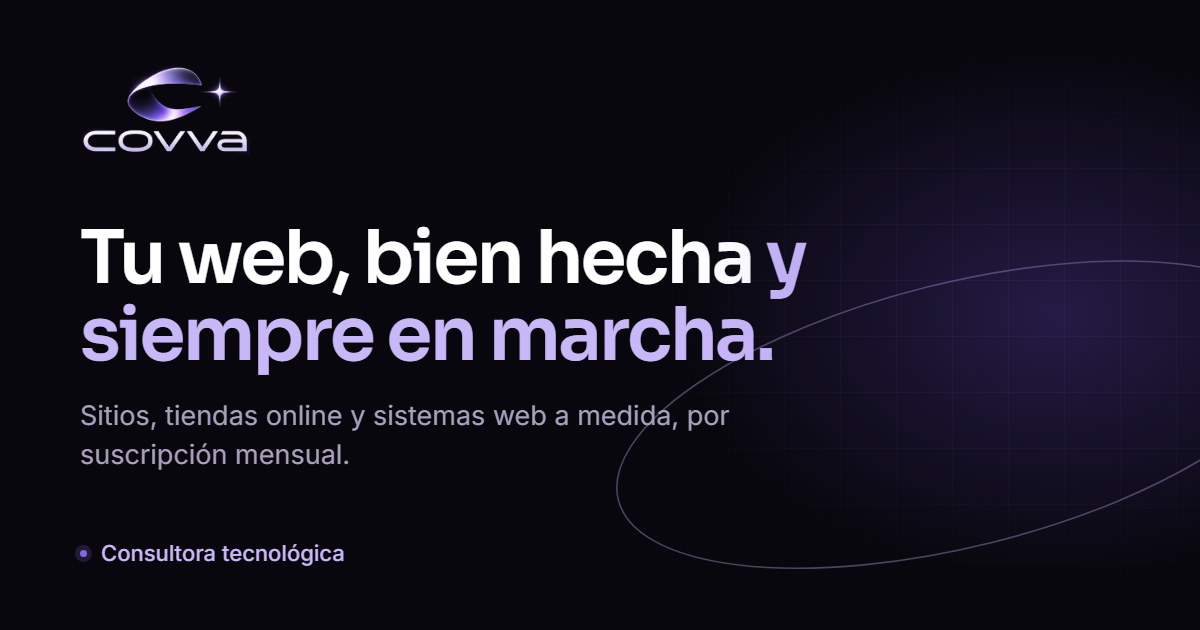
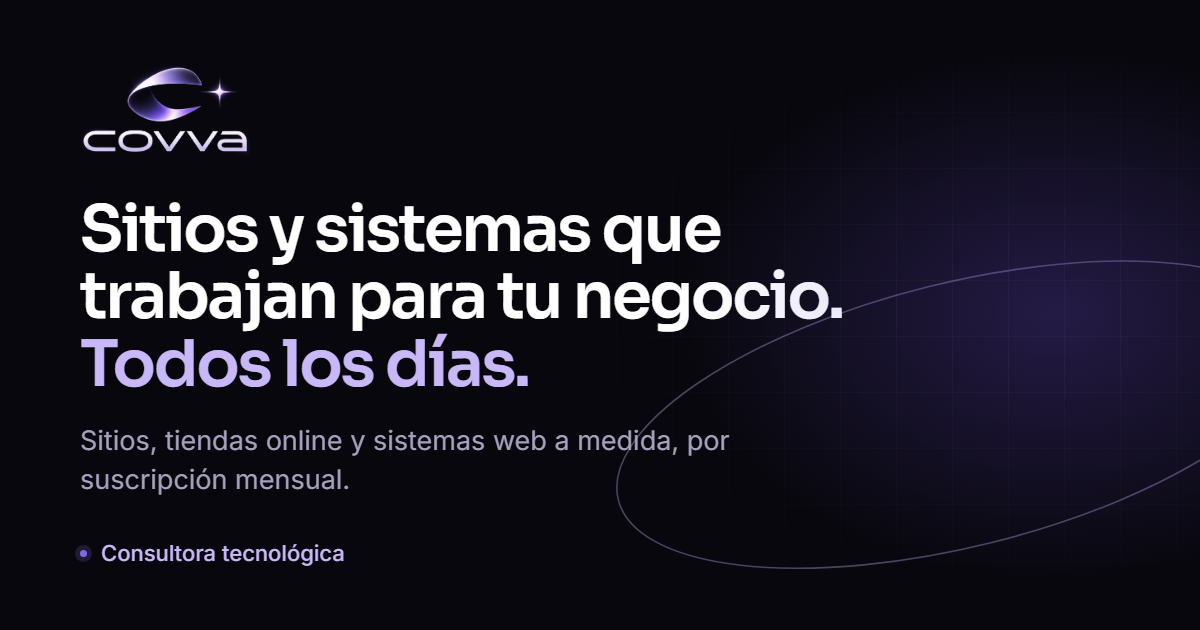
Textos más claros y orientados al cliente
- Nuevos títulos, bajadas y botones en hero, servicios, nosotros, cómo
  trabajamos, suscripción, preguntas frecuentes, contacto y footer.
- Título y descripción para buscadores e imagen para redes con el título nuevo.
- Etiqueta del hero sin borde de píldora en pantallas angostas, para que el
  texto en dos líneas no deforme el diseño.

Changed region(s): [[0.0617, 0.3016, 0.7092, 0.7841]]

diff --git a/src/data/servicios.ts b/src/data/servicios.ts
@@ -18,24 +18,24 @@ export const servicios: Servicio[] = [
   {
     id: 'landing',
     nombre: 'Landing pages',
-    resumen: 'Una página enfocada en un solo objetivo.',
+    resumen: 'Una página pensada para convertir visitas en consultas.',
     descripcion:
-      'Ideal para presentar un producto, un servicio o una campaña. Todo el contenido está pensado para que quien entra entienda rápido qué ofrecés y te contacte.',
+      'Ideal para lanzar un producto, promocionar un servicio o acompañar una campaña. Cada sección está ordenada para que quien entra entienda rápido qué ofrecés y te escriba.',
     incluye: [
       'Diseño a medida, alineado a tu marca',
       'Estructura y textos ordenados en función del objetivo',
       'Acceso directo a tu contacto o WhatsApp',
       'Pensada primero para celulares',
     ],
-    paraQuien: 'Lanzamientos, campañas y profesionales que necesitan presencia online clara.',
+    paraQuien: 'Lanzamientos, campañas publicitarias y profesionales que quieren captar clientes.',
     icono: 'landing',
   },
   {
     id: 'institucional',
     nombre: 'Sitios institucionales',
-    resumen: 'Tu presencia completa en internet.',
+    resumen: 'La carta de presentación de tu marca.',
     descripcion:
-      'Un sitio que cuenta quiénes son, qué hacen y cómo contactarlos, con una imagen a la altura de tu marca y fácil de recorrer desde cualquier dispositivo.',
+      'Un sitio que transmite confianza desde el primer vistazo: quiénes son, qué hacen y cómo contactarlos, con una imagen a la altura de tu marca en cualquier dispositivo.',
     incluye: [
       'Varias secciones o páginas, según lo que necesites comunicar',
       'Diseño coherente con tu identidad visual',
@@ -48,9 +48,9 @@ export const servicios: Servicio[] = [
   {
     id: 'tienda',
     nombre: 'Tiendas online',
-    resumen: 'Vendé por internet, con todo en orden.',
+    resumen: 'Tu tienda abierta las 24 horas.',
     descripcion:
-      'Una tienda con catálogo, carrito y proceso de compra claro, para que tus clientes compren sin fricciones y vos puedas gestionar productos y pedidos.',
+      'Un catálogo claro y una compra simple, para que tus clientes compren sin trabas y vos gestiones productos, stock y pedidos desde un solo lugar.',
     incluye: [
       'Catálogo organizado por categorías',
       'Carrito y proceso de compra simple',
@@ -63,9 +63,9 @@ export const servicios: Servicio[] = [
   {
     id: 'sistema',
     nombre: 'Sistemas y aplicaciones web',
-    resumen: 'Herramientas para ordenar tu operación.',
+    resumen: 'Menos planillas, más control de tu operación.',
     descripcion:
-      'Turnos, clientes, stock, presupuestos o reportes: desarrollamos sistemas que se adaptan a cómo trabaja tu equipo y se usan desde el navegador, sin instalar nada.',
+      'Turnos, clientes, stock, presupuestos o reportes: sistemas que se adaptan a cómo trabaja tu equipo, para ahorrar tiempo y tener la información al día. Se usan desde el navegador, sin instalar nada.',
     incluye: [
       'Relevamiento de tus procesos actuales',
       'Usuarios con distintos permisos',
@@ -78,9 +78,9 @@ export const servicios: Servicio[] = [
   {
     id: 'medida',
     nombre: 'Soluciones a medida',
-    resumen: 'Cuando lo que necesitás no entra en una categoría.',
+    resumen: 'Para problemas que no tienen una solución estándar.',
     descripcion:
-      'Partimos de tu problema, no de una plantilla. Analizamos el caso con vos y proponemos una solución que puede combinar varias de las anteriores.',
+      'Partimos de tu problema, no de una plantilla. Analizamos el caso con vos y diseñamos una solución que puede combinar varias de las anteriores.',
     incluye: [
       'Análisis del problema y del contexto',
       'Propuesta adaptada a tus prioridades',

diff --git a/src/data/nosotros.ts b/src/data/nosotros.ts
@@ -6,7 +6,7 @@
 export const valores = [
   {
     titulo: 'Compromiso',
-    texto: 'Nos hacemos cargo de cada proyecto como si fuera propio, de la primera charla al lanzamiento.',
+    texto: 'Tratamos cada proyecto como si fuera propio, de la primera charla al lanzamiento y después.',
     icono: 'compromiso',
   },
   {
@@ -16,12 +16,12 @@ export const valores = [
   },
   {
     titulo: 'Soluciones a medida',
-    texto: 'Partimos de lo que necesitás vos, no de una plantilla que hay que forzar para que encaje.',
+    texto: 'Partimos de cómo funciona tu negocio, no de una plantilla que hay que forzar.',
     icono: 'medida',
   },
   {
     titulo: 'Calidad',
-    texto: 'Cuidamos el diseño, el funcionamiento y los detalles, aunque no se vean a simple vista.',
+    texto: 'Cuidamos el diseño, el funcionamiento y cada detalle, incluso los que no se ven.',
     icono: 'calidad',
   },
   {

diff --git a/src/data/proceso.ts b/src/data/proceso.ts
@@ -2,15 +2,15 @@
 export const pasos = [
   {
     titulo: 'Consulta inicial',
-    texto: 'Nos contás qué necesitás, para quién es y qué querés lograr.',
+    texto: 'Nos contás tu idea, a quién apunta y qué resultado buscás.',
   },
   {
     titulo: 'Análisis y propuesta',
-    texto: 'Estudiamos tu caso y te presentamos una propuesta con el alcance, el plan sugerido y los tiempos estimados.',
+    texto: 'Analizamos tu caso y te enviamos una propuesta con el alcance, el plan sugerido y los tiempos estimados.',
   },
   {
     titulo: 'Diseño y desarrollo',
-    texto: 'Diseñamos y construimos la solución, compartiendo avances para que puedas opinar en el camino.',
+    texto: 'Diseñamos y construimos la solución, y te mostramos avances para que opines en el camino.',
   },
   {
     titulo: 'Revisión y lanzamiento',

diff --git a/src/config/sitio.ts b/src/config/sitio.ts
@@ -13,9 +13,9 @@ export const sitio = {
   /** Dominio definitivo, sin barra final. Ej.: 'https://www.covva.com.ar' */
   url: '', // [Pendiente: dominio]
 
-  titulo: 'Covva — Desarrollo web a medida por suscripción',
+  titulo: 'Covva | Sitios, tiendas online y sistemas a medida por suscripción',
   descripcion:
-    'Diseñamos y desarrollamos landing pages, sitios institucionales, tiendas online y sistemas web a medida, con un modelo de suscripción mensual.',
+    'Consultora tecnológica: sitios, tiendas online y sistemas web a medida para tu negocio, por suscripción mensual desde $100.000.',
 
   idioma: 'es-AR',
   colorTema: '#08070D',

diff --git a/src/data/suscripcion.ts b/src/data/suscripcion.ts
@@ -10,15 +10,15 @@ export const componentes = [
   },
   {
     titulo: 'Alojamiento',
-    texto: 'El espacio donde tu web queda publicada y disponible.',
+    texto: 'Tu web publicada y siempre disponible.',
   },
   {
     titulo: 'Mantenimiento',
-    texto: 'Actualizaciones y controles para que todo siga funcionando bien.',
+    texto: 'Actualizaciones y controles para que todo siga funcionando como el primer día.',
   },
   {
     titulo: 'Soporte',
-    texto: 'Un canal para consultas, problemas o pedidos de cambios.',
+    texto: 'Un canal directo para consultas, problemas o pedidos de cambios.',
   },
 ];
 

diff --git a/src/data/faq.ts b/src/data/faq.ts
@@ -47,7 +47,7 @@ export const preguntas: { pregunta: string; respuesta: string[] }[] = [
   {
     pregunta: '¿Cómo pido un presupuesto?',
     respuesta: [
-      'Completá el formulario de contacto contándonos qué necesitás, o escribinos por WhatsApp, Instagram o correo.',
+      'Completá el formulario contándonos qué necesitás, o escribinos por WhatsApp, Instagram o correo. Con esa información armamos una propuesta a tu medida.',
     ],
   },
 ];
